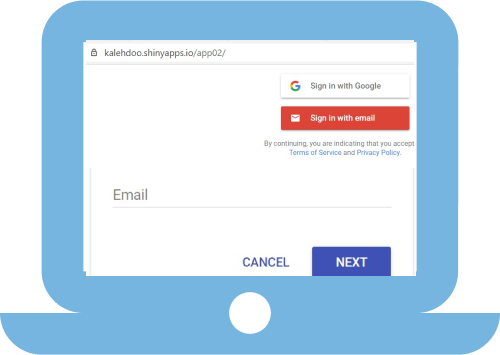
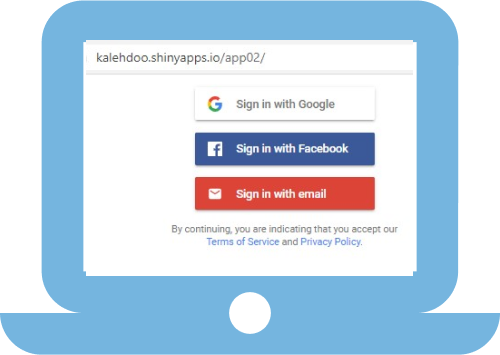
ok

Changed region(s): [[0.33, 0.2169, 0.84, 0.7746], [0.18, 0.1239, 0.54, 0.1859], [0.21, 0.5268, 0.3, 0.5887]]

diff --git a/SiteFinder.html b/SiteFinder.html
@@ -135,7 +135,9 @@
     </div>
     <h5 class="lead font-weight-bold" style="text-align:center; color: #1175B8;">How to use Kalehdoo Clinical Site Finder?</h5>
     <p style="text-align:justify;">
-      Kalehdoo Clinical Site Finder is an easy to use and interactive application. You can start using the application in 3 simple steps. The application is responsive to small screens so it will adjust automatically to mobiles and tablets.
+      Kalehdoo Clinical Site Finder is an easy to use and interactive application. You can start using the application in 3 simple steps. 
+      The application is responsive to all screens so it will adjust automatically to desktops, laptops, tablets and mobile phones. 
+      Since the application has data intensive, it may take a few seconds to load initially.
     </p>
     
     <div class="row row-cols-1 row-cols-md-3">
@@ -145,11 +147,10 @@
           <img src="images/step1Login.png" class="card-img-top" alt="Login">
           <div class="card-body">            
             <p class="card-text">
-              After clicking on the link for Kalehdoo Clinical Site Finder, you will be presented with Register or Login Screen. If you have a google account and want to login using that, you can click on (Sign in with Google).
-              To use any other email account, use the orange colored button (Sign in with Email).
+              To prevent any misuse of the appication, you will be presented with Register or Login Screen. You can choose to authenticate using your Google, Facebook, or any email account.              
             </p>
             <p class="card-text">
-              If you are a first time user, the next screen will ask you to set up your password. After you are registered, click on the URL again and login using your credentials.
+              For the first time, you will be prompted to set up your password, and your account will be registered. If you are registered with an email account, launch on the application URL again and login using your credentials you just setup.
             </p>
           </div>
         </div>
@@ -174,10 +175,10 @@
           <img src="images/step3sitedetails.png" class="card-img-top" alt="site Finder">
           <div class="card-body">            
             <p class="card-text">
-              The numbers show clinical sites available in that region. Hover over the mouse over the circles and the region covered by that circle will get highlighted in blue. Click on the circles to drill down until you find the clinical site closer to your desired location.  
+              The numbers show clinical sites available in that region. Hover over the mouse over the circles and the region covered will get highlighted in blue. Click on the circles to drill down until you find the clinical site closer to your desired location.  
             </p>
             <p class="card-text">
-              The blue colored location symbol represents a clinical site. Click on the icon to view the details on a popup. Click on blue colored Study ID to view detailed description and contact details on a new tab. 
+              The blue location icon represents a clinical site. Click on it once to view the details on a popup. Click on blue colored Study ID to view detailed description and contact details on clinicaltrials.gov in a new tab. 
             </p>
           </div>
         </div>
@@ -191,11 +192,11 @@
           <h4 class="my-0 font-weight-normal">Kalehdoo Clinical Site Finder</h4>
         </div>
         <div class="card-body">
-          <h5 class="card-title">Find Recruiting Clinical Sites</h5>
-          <p class="card-text">Now that you know enough about the application, click on the button below to experience it LIVE. Share the link to help us spread the word so that more people can benefit from it.            
+          <h5 class="card-title">Helping Community Find Recruiting Clinical Sites</h5>
+          <p class="card-text">Now that you know enough about the application, click on the button below to experience it LIVE. Share the link with others to help us spread the word so that more people can benefit from it.            
             Useful for sponsors, patients, physicians, and special interest organizations.
-            Contact us in case of any difficulties.</p>          
-          <button type="button" class="btn btn-lg btn-block btn-outline-primary" onclick="window.open('https://kalehdoo.shinyapps.io/app02/','_blank');">View Application</button>
+            Contact us in case of any difficulties or if you want to share your story or have a suggestion.</p>          
+          <button type="button" class="btn btn-lg btn-block btn-outline-primary" onclick="window.open('https://kalehdoo.shinyapps.io/app02/','_blank');">Launch Kalehdoo Clinical Site Finder</button>
         </div>
       </div>      
     </div>    

diff --git a/Contact.html b/Contact.html
@@ -116,7 +116,7 @@
     <p class="display-4" style="color: #1175B8;">We'd love to hear from you.</p>
     <h2 class="lead">To schedule a product demonstration or discussion, feel free to contact us.</h2>
     <h5 class="display-5" style="color: #1175B8;">Oakbloc Technologies, Inc</h5>
-    <h5 class="display-5">MI 48098, USA</h5>
+    <h5 class="display-5">Headquarters – Detroit, Michigan, USA</h5>
     <h5 class="display-5" style="color: #1175B8;">Email: contact@oakbloc.com</h5>
   </div>
 
